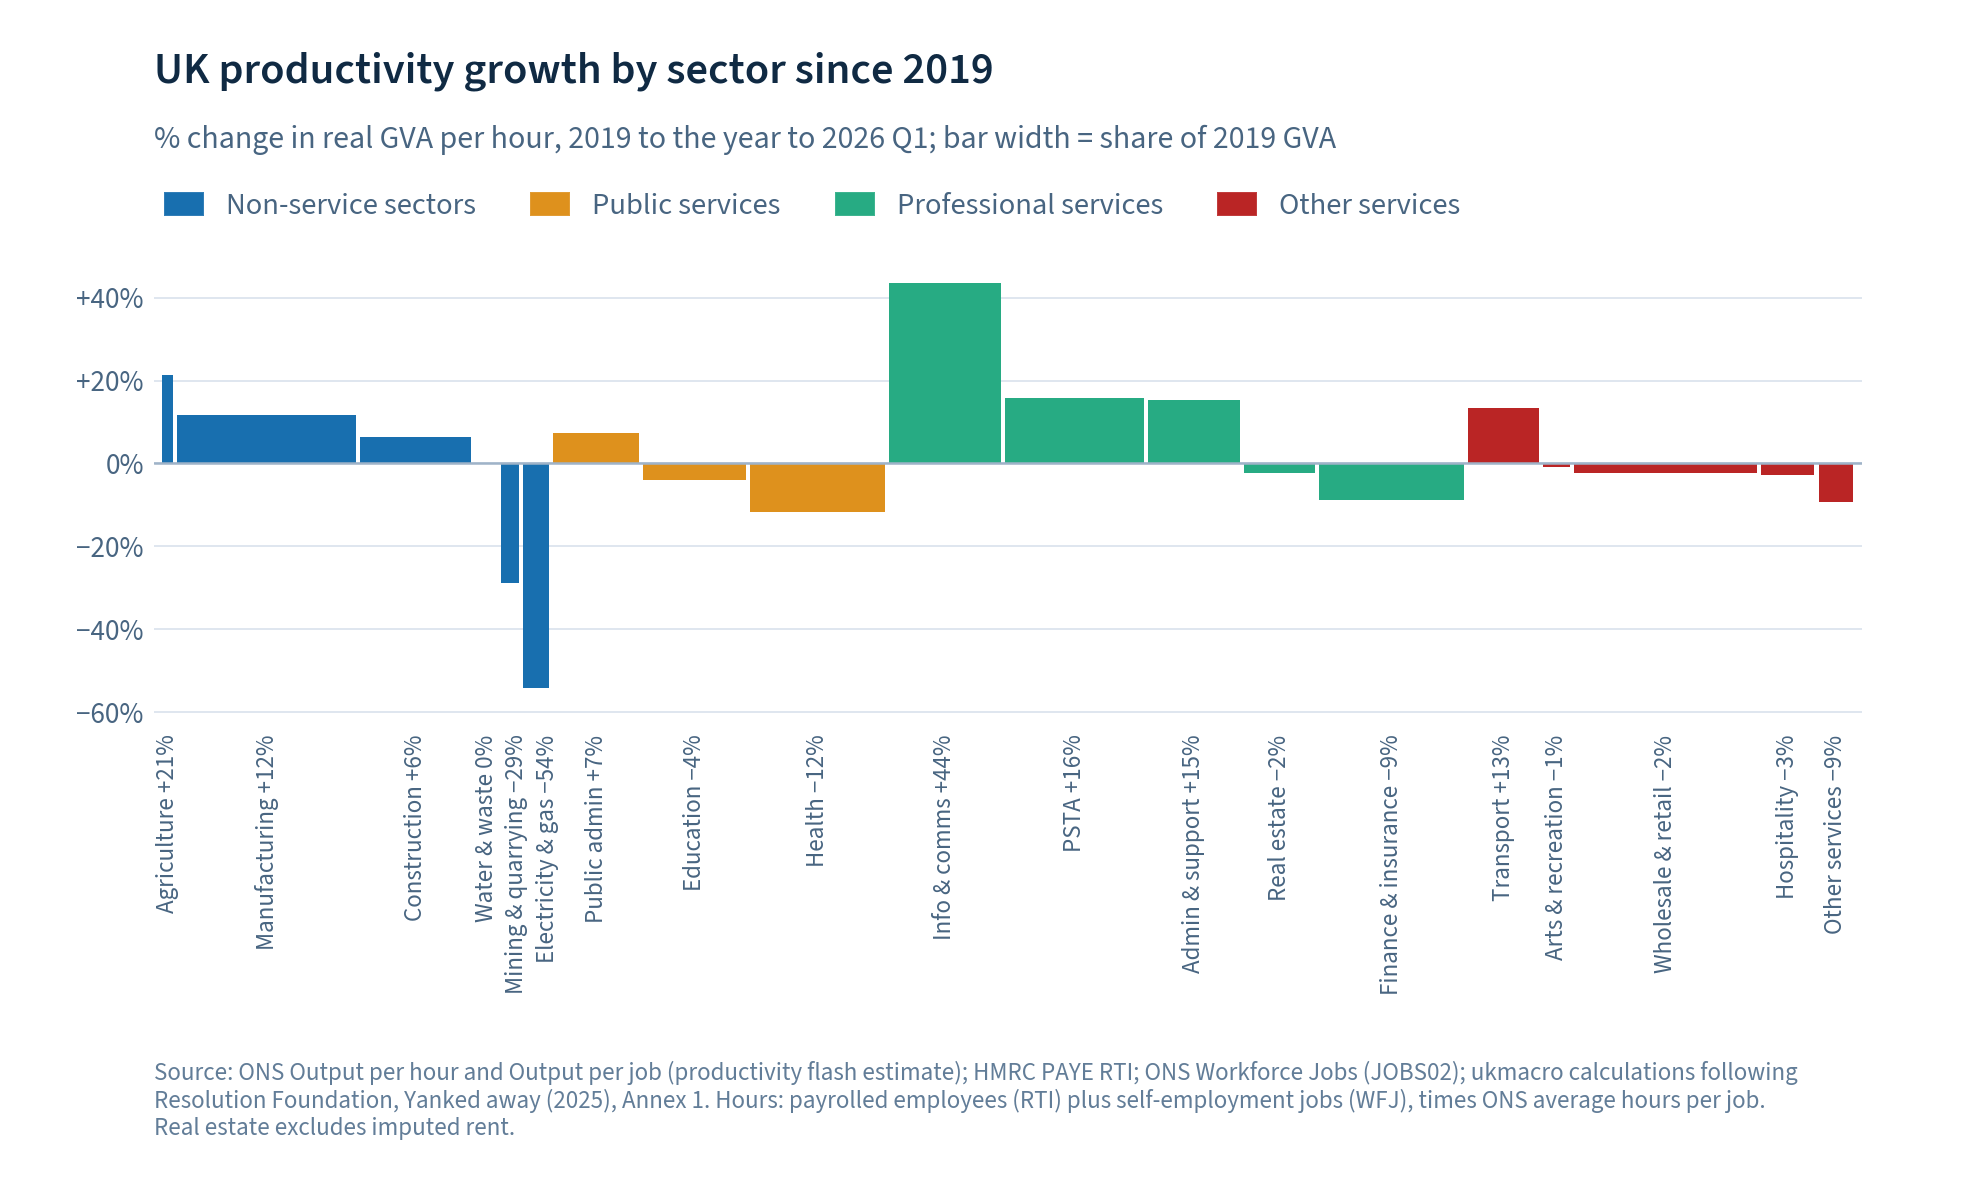
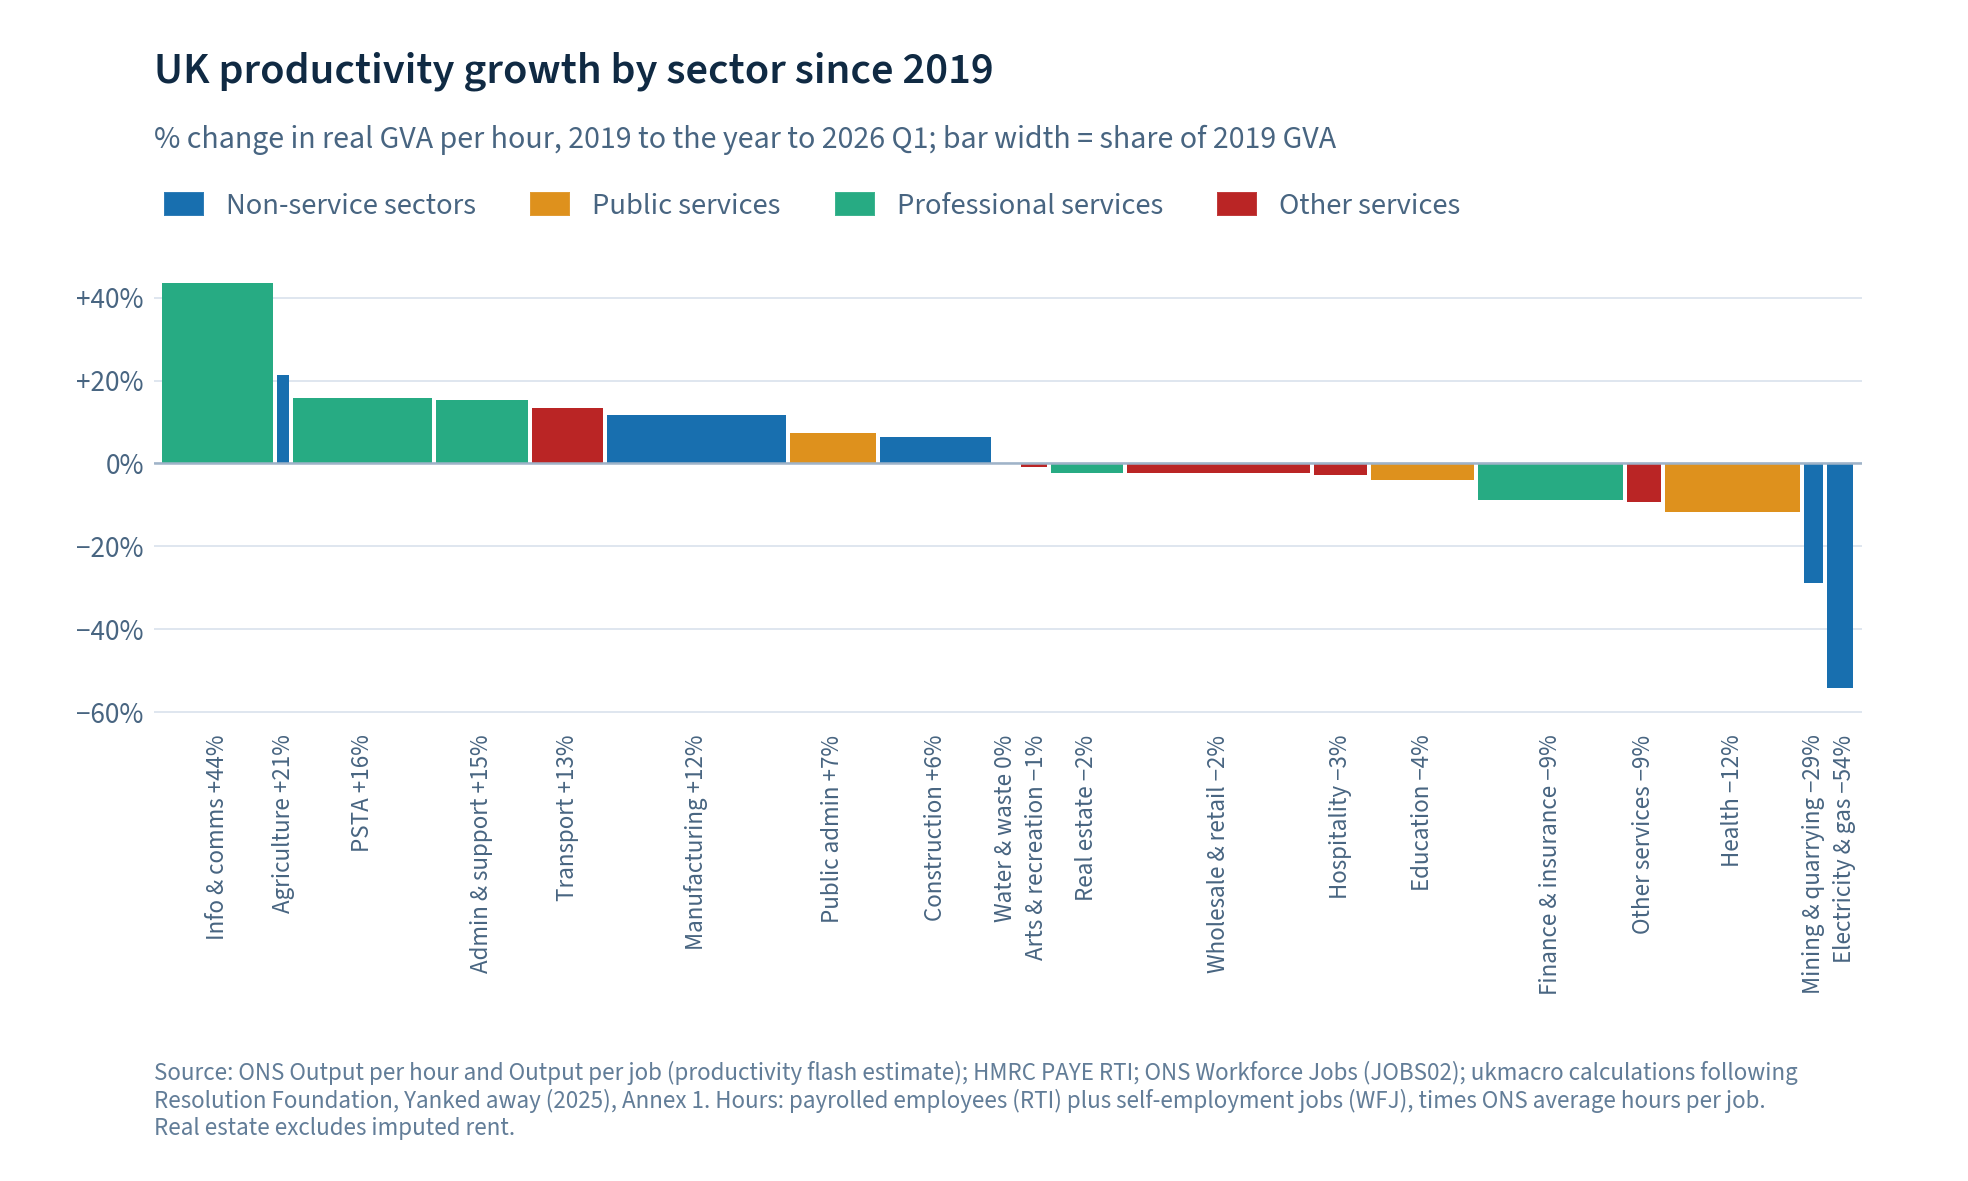
Productivity by sector: per-job versions, and sort the UK chart by growth
Adds GVA-per-job versions of the UK sector chart and the UK vs US contributions
chart. UK jobs are RTI employees plus WFJ self-employment jobs, the same count
the hours are built from; US jobs are BLS Employment Projections total jobs
(series 4: wage and salary plus self-employed). The UK sector bars now run from
highest to lowest growth, with colour still showing the group.

diff --git a/builders/productivity/uk_us_sectors.py b/builders/productivity/uk_us_sectors.py
@@ -6,9 +6,14 @@ figures 6 and 10, rebuilt on the latest data.
                                    2019 to the latest four quarters; bar widths are each
                                    sector's share of 2019 GVA, so a bar's area is roughly
                                    its contribution to aggregate productivity growth
+  uk-productivity-by-sector-per-job  the same, for real GVA per job (RTI employee jobs
+                                   plus WFJ self-employment jobs) instead of per hour
   uk-us-productivity-contributions figure 10: average annual within-industry contribution
                                    to GVA-per-hour growth from 2018 (growth in 2019 onwards),
                                    by sector, UK vs US
+  uk-us-productivity-contributions-per-job  the same for GVA per job (UK: RTI + WFJ
+                                   self-employment jobs; US: BLS total jobs, wage and
+                                   salary plus self-employed)
 
 UK hours follow RF's method (their Annex 1), which avoids leaning on the Labour Force
 Survey for the level of employment:
@@ -191,18 +196,19 @@ def uk_data() -> dict:
     rti, sej = fetch_rti(), fetch_self_employed()
     quarters = sorted(set.intersection(*(set(s[sec]) for s in (cvm, ons_hours, ons_jobs, rti, sej)
                                          for sec in SECTIONS)))
-    rf_hours = {sec: {q: (rti[sec][q] + sej[sec][q]) * ons_hours[sec][q] / ons_jobs[sec][q]
-                      for q in quarters} for sec in SECTIONS}
+    rf_jobs = {sec: {q: rti[sec][q] + sej[sec][q] for q in quarters} for sec in SECTIONS}
+    rf_hours = {sec: {q: rf_jobs[sec][q] * ons_hours[sec][q] / ons_jobs[sec][q] for q in quarters}
+                for sec in SECTIONS}
     total = next(c for c in cp if c.startswith("A to T"))
     return {"quarters": quarters, "cvm": cvm, "cp": cp, "hours": rf_hours, "ons_hours": ons_hours,
-            "total_cp": cp[total]}
+            "jobs": rf_jobs, "ons_jobs": ons_jobs, "total_cp": cp[total]}
 
 
 # ---- US -------------------------------------------------------------------------------
 
 def us_data() -> dict:
     """Annual US series by BEA line: real quantity index and current-price value added;
-    and BLS total hours by EP sector."""
+    and BLS total hours and total jobs by EP sector."""
     wb = openpyxl.load_workbook(io.BytesIO(get(BEA_VA, timeout=180)), read_only=True)
 
     def table(sheet: str) -> dict[int, dict[int, float]]:
@@ -218,8 +224,10 @@ def us_data() -> dict:
         name = next(n for n in z.namelist() if re.fullmatch(r"emp\d{4}\.csv", n.lower()))
         rows = list(csv.reader(io.TextIOWrapper(z.open(name), encoding="utf-8-sig")))
     years = [int(y) for y in rows[0][2:]]
-    hours = {int(r[1]): dict(zip(years, map(float, r[2:]))) for r in rows[1:] if r and r[0] == "5"}
-    return {"real": table("TVA103-A"), "cp": table("TVA105-A"), "hours": hours}
+    # EP series 4 = total jobs (thousands), 5 = total hours of all persons (millions)
+    ep = {k: {int(r[1]): dict(zip(years, map(float, r[2:]))) for r in rows[1:] if r and r[0] == k}
+          for k in ("4", "5")}
+    return {"real": table("TVA103-A"), "cp": table("TVA105-A"), "hours": ep["5"], "jobs": ep["4"]}
 
 
 # ---- calculations -------------------------------------------------------------------------
@@ -229,27 +237,31 @@ def _avg(s: dict[str, float], periods: list[str]) -> float:
 
 
 def fig6_rows(uk: dict) -> tuple[list[dict], list[str]]:
-    """Change in GVA per hour by section, 2019 to the latest four quarters."""
+    """Change in GVA per hour and per job by section, 2019 to the latest four quarters."""
     base = [f"{BASE_YEAR} Q{i}" for i in range(1, 5)]
     latest = uk["quarters"][-4:]
     total_2019 = _avg(uk["total_cp"], base)
     rows = []
     for sec, (name, group) in SECTIONS.items():
-        def change(hours):
-            return 100 * ((_avg(uk["cvm"][sec], latest) / _avg(hours, latest)) /
-                          (_avg(uk["cvm"][sec], base) / _avg(hours, base)) - 1)
+        def change(labour):   # % change in real GVA per unit of labour (hours or jobs)
+            return 100 * ((_avg(uk["cvm"][sec], latest) / _avg(labour, latest)) /
+                          (_avg(uk["cvm"][sec], base) / _avg(labour, base)) - 1)
         rows.append({"section": sec, "sector": name, "group": group,
                      "gva_share_2019": round(100 * _avg(uk["cp"][sec], base) / total_2019, 2),
                      "change_gva_per_hour": round(change(uk["hours"][sec]), 1),
                      "change_ons_output_per_hour": round(change(uk["ons_hours"][sec]), 1),
                      "change_gva": round(100 * (_avg(uk["cvm"][sec], latest) / _avg(uk["cvm"][sec], base) - 1), 1),
-                     "change_hours": round(100 * (_avg(uk["hours"][sec], latest) / _avg(uk["hours"][sec], base) - 1), 1)})
+                     "change_hours": round(100 * (_avg(uk["hours"][sec], latest) / _avg(uk["hours"][sec], base) - 1), 1),
+                     "change_gva_per_job": round(change(uk["jobs"][sec]), 1),
+                     "change_ons_output_per_job": round(change(uk["ons_jobs"][sec]), 1),
+                     "change_jobs": round(100 * (_avg(uk["jobs"][sec], latest) / _avg(uk["jobs"][sec], base) - 1), 1)})
     return rows, latest
 
 
 def _contributions(real, cp, hours, total, years) -> dict[int, tuple[float, float]]:
     """{year: (contribution in ppts, share of GVA in the year before)} for one merged sector.
-    real/cp: lists of {year: value} for the sector's parts; hours: {year: total hours}."""
+    real/cp: lists of {year: value} for the sector's parts; hours: {year: total hours}
+    (or total jobs, for GVA per job)."""
     out = {}
     for t in years:
         weights = [c[t - 1] for c in cp]
@@ -259,9 +271,9 @@ def _contributions(real, cp, hours, total, years) -> dict[int, tuple[float, floa
     return out
 
 
-def fig10_rows(uk: dict, us: dict) -> tuple[list[dict], int]:
+def fig10_rows(uk: dict, us: dict, labour: str = "hours") -> tuple[list[dict], int]:
     """Average annual within-industry contributions over the growth years START (on START - 1)
-    to the latest year both have."""
+    to the latest year both have; labour is "hours" or "jobs"."""
     def annual(s: dict[str, float], how=sum) -> dict[int, float]:
         by: dict[int, list[float]] = {}
         for q, v in s.items():
@@ -278,10 +290,10 @@ def fig10_rows(uk: dict, us: dict) -> tuple[list[dict], int]:
     rows = []
     for name, (secs, lines, bls) in COMPARE.items():
         uk_c = _contributions([annual(uk["cvm"][s], mean) for s in secs], [annual(uk["cp"][s]) for s in secs],
-                              {y: sum(annual(uk["hours"][s])[y] for s in secs) for y in uk_years},
+                              {y: sum(annual(uk[labour][s], mean)[y] for s in secs) for y in uk_years},
                               uk_total, years)
         us_c = _contributions([us["real"][ln] for ln in lines], [us["cp"][ln] for ln in lines],
-                              {y: sum(us["hours"][n][y] for n in bls) for y in us_years}, us_total, years)
+                              {y: sum(us[labour][n][y] for n in bls) for y in us_years}, us_total, years)
         row = {"sector": name}
         for c, con in (("uk", uk_c), ("us", us_c)):
             row[f"{c}_contribution"] = round(mean([con[t][0] for t in years]), 3)
@@ -299,19 +311,29 @@ def _sign(v: float, d: int = 0) -> str:
     return f"{v:+.{d}f}".replace("-", "−")
 
 
-def chart_fig6(rows: list[dict], latest: list[str]) -> None:
-    fig, ax = hs.figure("UK productivity growth by sector since 2019",
-                        f"% change in real GVA per hour, {BASE_YEAR} to the year to {latest[-1]}; "
+FIG6 = {   # measure: (CSV column, units wording, labour note for the footer, file name)
+    "hour": ("change_gva_per_hour", "real GVA per hour",
+             "Hours: payrolled employees (RTI) plus self-employment jobs (WFJ), times ONS average hours per job.",
+             "uk-productivity-by-sector"),
+    "job": ("change_gva_per_job", "real GVA per job",
+            "Jobs: payrolled employees (RTI) plus self-employment jobs (WFJ); people with two jobs count twice.",
+            "uk-productivity-by-sector-per-job"),
+}
+
+
+def chart_fig6(rows: list[dict], latest: list[str], measure: str = "hour") -> None:
+    col, what, note, slug = FIG6[measure]
+    title = "UK productivity growth by sector since 2019" + (": output per job" if measure == "job" else "")
+    fig, ax = hs.figure(title,
+                        f"% change in {what}, {BASE_YEAR} to the year to {latest[-1]}; "
                         f"bar width = share of {BASE_YEAR} GVA",
-                        source=SOURCE_UK + " Hours: payrolled employees (RTI) plus self-employment jobs (WFJ), "
-                        "times ONS average hours per job. Real estate excludes imputed rent.")
+                        source=SOURCE_UK + " " + note + " Real estate excludes imputed rent.")
     ax.set_position([hs._x(hs.LEFT_CM), 0.39, 1 - hs._x(hs.LEFT_CM) - hs._x(hs.RIGHT_CM), 0.40])
     colour = dict(zip(GROUPS, hs.COLOURS["series"]))
-    order = [r for g in GROUPS for r in sorted((r for r in rows if r["group"] == g),
-                                               key=lambda r: -r["change_gva_per_hour"])]
+    order = sorted(rows, key=lambda r: -r[col])   # biggest growth first; colour shows the group
     x, gap, labels = 0.0, 0.25, []
     for r in order:
-        w, v = r["gva_share_2019"], r["change_gva_per_hour"]
+        w, v = r["gva_share_2019"], r[col]
         ax.bar(x, v, width=w, align="edge", color=colour[r["group"]], linewidth=0)
         labels.append([x + w / 2, f"{r['sector']} {_sign(v) if round(v) else '0'}%"])
         x += w + gap
@@ -325,8 +347,8 @@ def chart_fig6(rows: list[dict], latest: list[str]) -> None:
     for lx, text in labels:
         ax.text(lx, -0.03, text, transform=ax.get_xaxis_transform(), rotation=90, ha="center", va="top",
                 fontsize=9, color=hs.COLOURS["text_2"])
-    lo = min(r["change_gva_per_hour"] for r in rows)
-    hi = max(r["change_gva_per_hour"] for r in rows)
+    lo = min(r[col] for r in rows)
+    hi = max(r[col] for r in rows)
     ax.set_ylim(10 * (lo // 10) - 2, 10 * (hi // 10 + 1) + 2)
     ax.axhline(0, color=hs.COLOURS["grey"], linewidth=0.9)
     ax.set_xlim(-0.5, x + 0.3)
@@ -336,14 +358,20 @@ def chart_fig6(rows: list[dict], latest: list[str]) -> None:
     fig.legend(handles=[Patch(color=colour[g], label=g) for g in GROUPS], loc="upper left",
                bbox_to_anchor=(hs._x(hs.LEFT_CM - 0.2), 0.86), ncol=4, handlelength=1.2, columnspacing=1.8)
     IMG.mkdir(parents=True, exist_ok=True)
-    hs.save_png(fig, IMG / "uk-productivity-by-sector.png")
+    hs.save_png(fig, IMG / f"{slug}.png")
 
 
-def chart_fig10(rows: list[dict], last: int) -> None:
-    fig, ax = hs.figure(f"Contributions to productivity growth by sector, {START - 1}–{last}: UK vs US",
-                        "Average annual within-industry contribution to growth in GVA per hour, percentage points; "
+def chart_fig10(rows: list[dict], last: int, labour: str = "hours") -> None:
+    per = "job" if labour == "jobs" else "hour"
+    note = (" US jobs: BLS total jobs (wage and salary plus self-employed); UK jobs: RTI employees plus WFJ "
+            "self-employment jobs." if per == "job" else "")
+    fig, ax = hs.figure(f"Contributions to productivity growth by sector, {START - 1}–{last}: UK vs US"
+                        + (", output per job" if per == "job" else ""),
+                        f"Average annual within-industry contribution to growth in GVA per {per}, percentage points; "
                         "bubble size = share of GVA",
-                        source=SOURCE_US + " Excludes education, health, public administration and real estate. "
+                        source=(SOURCE_US if per == "hour" else
+                                SOURCE_US.replace("UK hours", "UK jobs").replace("industry hours", "industry jobs"))
+                        + note + " Excludes education, health, public administration and real estate. "
                         "US sectors aligned to UK SIC sections as in RF's Annex 1. PSTA = professional, "
                         "scientific and technical.", left_cm=4.4)
     order = sorted(rows, key=lambda r: r["us_contribution"] - r["uk_contribution"])
@@ -366,7 +394,7 @@ def chart_fig10(rows: list[dict], last: int) -> None:
     fig.legend(handles=handles, loc="upper left", bbox_to_anchor=(hs._x(hs.LEFT_CM - 0.2), 0.86), ncol=2,
                handlelength=1.0, columnspacing=1.8)
     IMG.mkdir(parents=True, exist_ok=True)
-    hs.save_png(fig, IMG / "uk-us-productivity-contributions.png")
+    hs.save_png(fig, IMG / ("uk-us-productivity-contributions" + ("-per-job" if per == "job" else "") + ".png"))
 
 
 def _write(rows: list[dict], path: Path) -> None:
@@ -382,18 +410,27 @@ def main() -> None:
     uk, us = uk_data(), us_data()
     r6, latest = fig6_rows(uk)
     chart_fig6(r6, latest)
+    chart_fig6(r6, latest, "job")
     _write(r6, OUT / "uk_productivity_by_sector.csv")
     r10, last = fig10_rows(uk, us)
     chart_fig10(r10, last)
     _write(r10, OUT / "uk_us_productivity_contributions.csv")
+    r10j, _ = fig10_rows(uk, us, "jobs")
+    chart_fig10(r10j, last, "jobs")
+    _write(r10j, OUT / "uk_us_productivity_contributions_per_job.csv")
     print(f"[fig6] 2019 to {latest[0]}-{latest[-1]}")
     for r in r6:
         print(f"  {r['sector']:20s} share {r['gva_share_2019']:5.1f}  RF-method {r['change_gva_per_hour']:+6.1f}  "
-              f"ONS {r['change_ons_output_per_hour']:+6.1f}")
+              f"ONS {r['change_ons_output_per_hour']:+6.1f}  per job {r['change_gva_per_job']:+6.1f} "
+              f"(ONS {r['change_ons_output_per_job']:+6.1f})")
     print(f"[fig10] {START - 1}-{last}  (RF's 2019-2023 in brackets)")
     for r in r10:
         print(f"  {r['sector']:20s} UK {r['uk_contribution']:+.3f} ({r['uk_contribution_2020_2023']:+.3f})  "
               f"US {r['us_contribution']:+.3f} ({r['us_contribution_2020_2023']:+.3f})")
+    print(f"[fig10 per job] {START - 1}-{last}")
+    for r in r10j:
+        print(f"  {r['sector']:20s} UK {r['uk_contribution']:+.3f}  US {r['us_contribution']:+.3f}  "
+              f"gap {r['us_contribution'] - r['uk_contribution']:+.3f}")
 
 
 if __name__ == "__main__":
